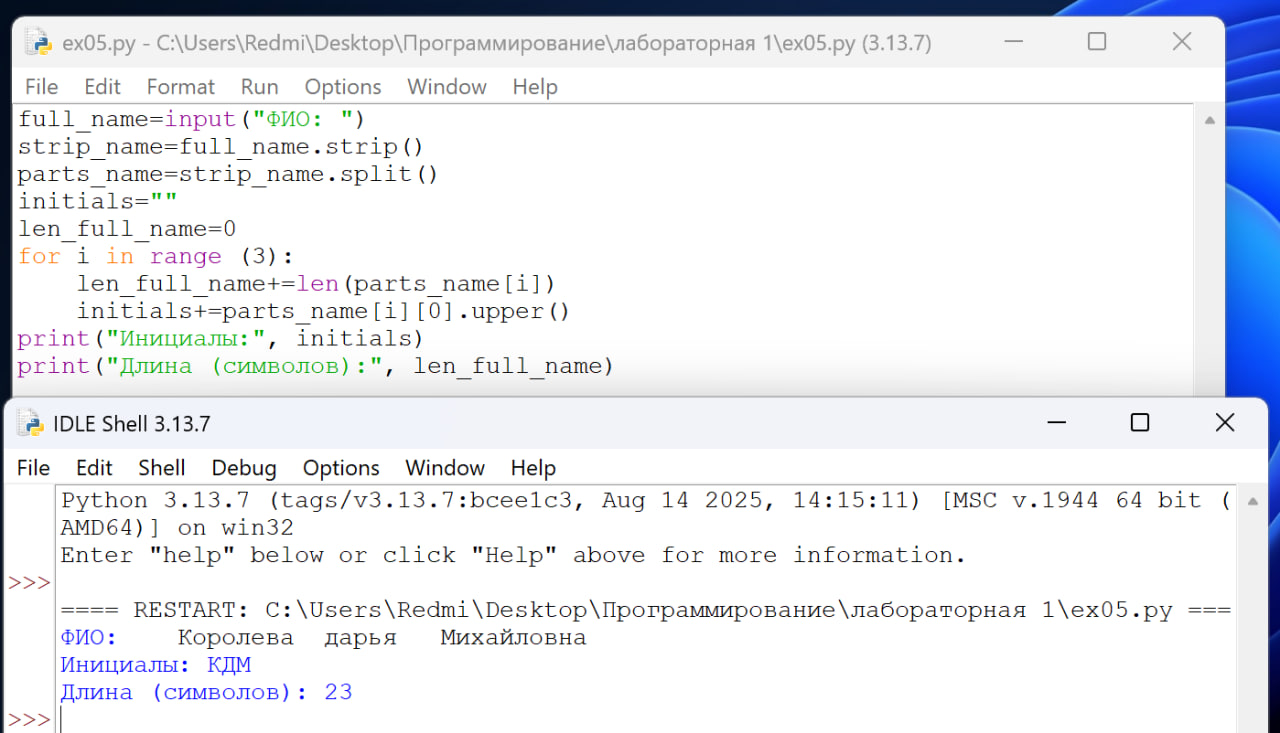
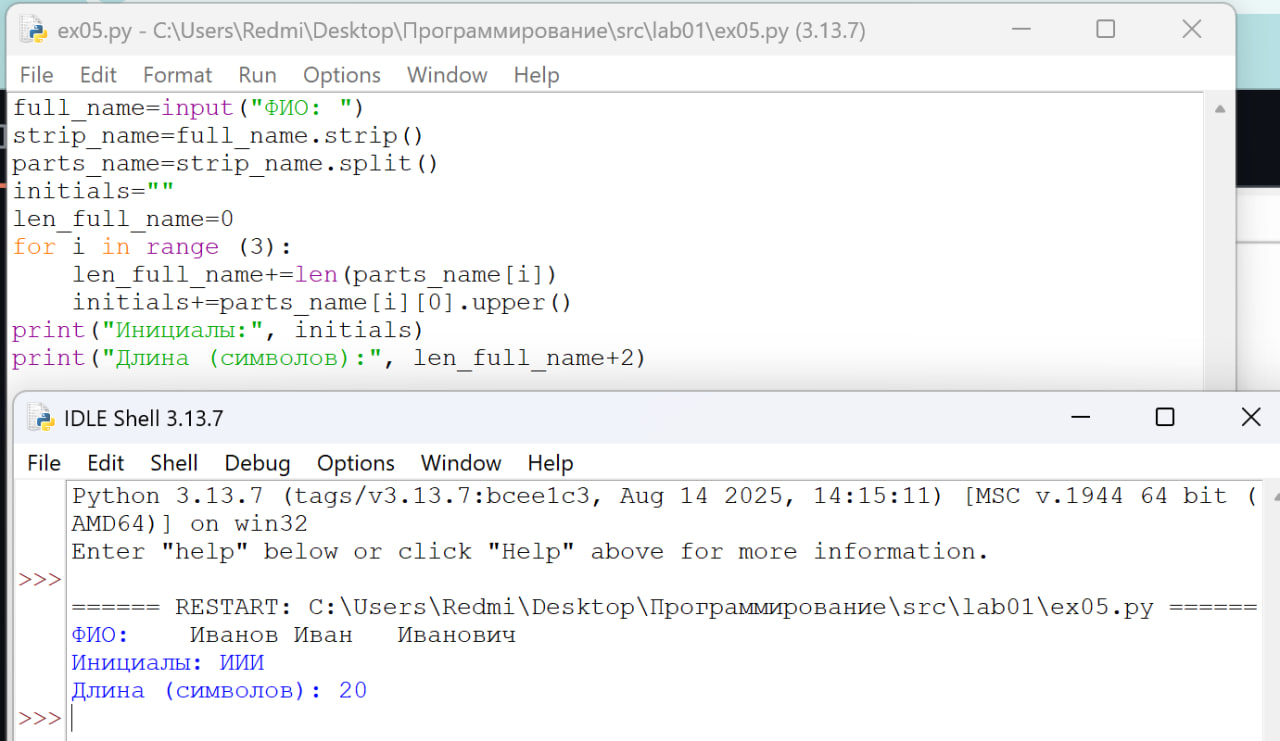
ex05*

Changed region(s): [[0.0, 0.0, 1.0, 1.0]]

diff --git a/src/lab01/ex05.py b/src/lab01/ex05.py
@@ -7,4 +7,4 @@ for i in range (3):
     len_full_name+=len(parts_name[i])
     initials+=parts_name[i][0].upper()
 print("Инициалы:", initials)
-print("Длина (символов):", len_full_name)
+print("Длина (символов):", len_full_name+2)
